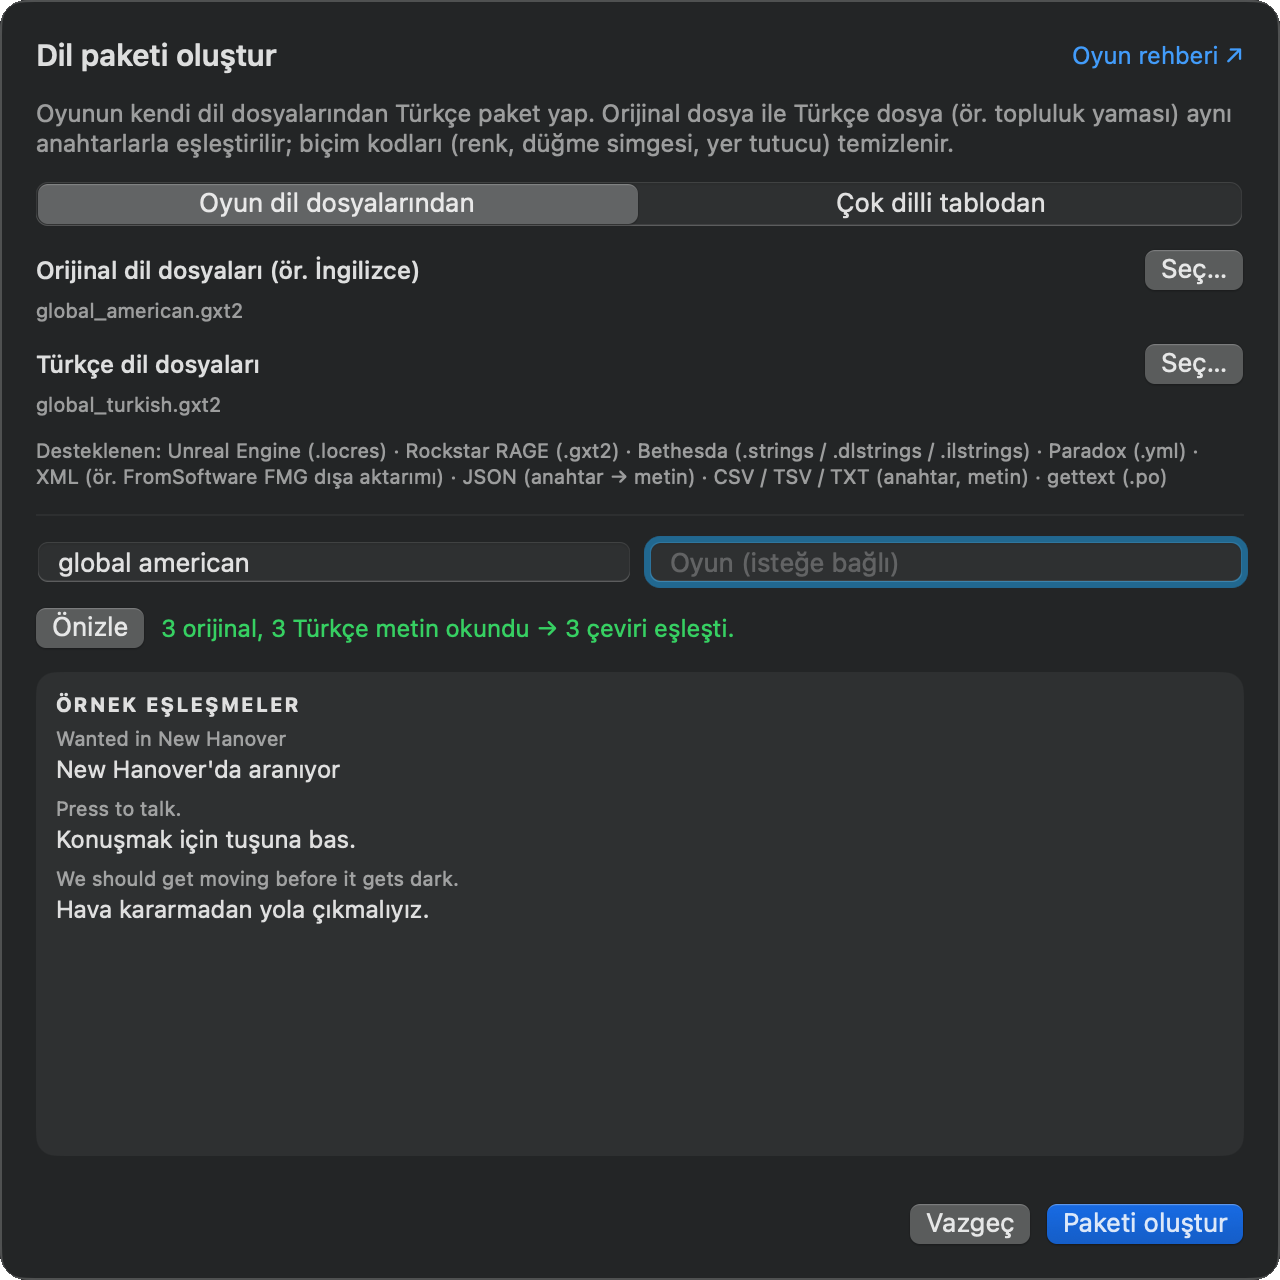
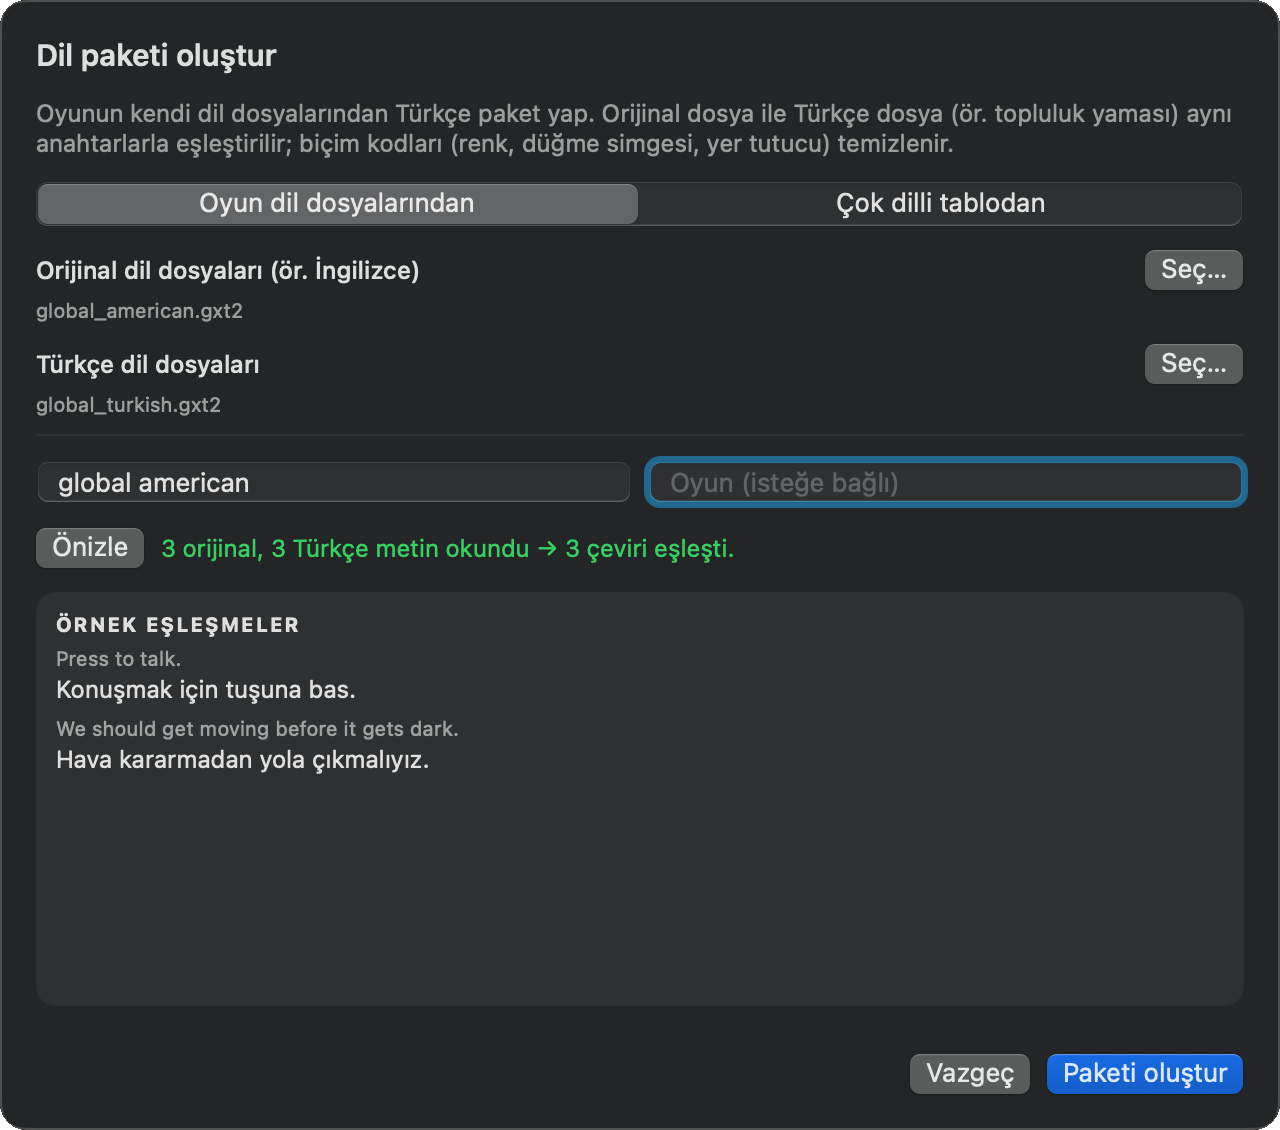
Dil paketleri bölümü sadeleştirildi, ekran görüntüleri güncellendi

Changed region(s): [[0.0312, 0.031, 1.0, 0.7434], [0.7188, 0.9292, 0.9688, 0.9912]]

diff --git a/README.md b/README.md
@@ -111,30 +111,25 @@ oynarken başka hiçbir şeye dokunman gerekmez.
 
 ## İnternetsiz çeviri: oyun dil paketleri
 
-Dil paketi, bir oyunun **"orijinal metin → Türkçe çeviri"** listesidir. Paketi oyun profiline bağladığında o oyunda ekrandan okunan yazı
-önce pakette aranır; bulunursa paketteki çeviri gösterilir, hiçbir yere bağlanılmaz. Bulunamayan yazılar seçtiğin çeviri motoruna kalır.
+Oyuna bir dil paketi bağla; ekrandaki yazı oyunun kendi Türkçe metinlerinden **internet olmadan ve anında** çevrilir. (macOS, 1.5.0)
 
-- **Çevrimdışı oynayanlar için:** uçakta, yolda, internetin zayıf olduğu yerde ya da bulut motorun sınırı dolduğunda çeviri sürer.
-- **Doğru terimler:** topluluk Türkçe yamalarındaki ya da kendi düzelttiğin çeviriler kullanılır; eşya, yetenek ve görev adları hep aynı çıkar.
-- **Sıfır gecikme:** paketten gelen çeviri motoru beklemez, altyazı belirdiği anda ekrandadır.
+<table>
+<tr>
+<td width="50%"><img src="assets/ekran-goruntuleri/dil-paketi-olustur.png" alt="Dil paketi oluştur: oyun dil dosyalarından"><br>
+<b>Oyun dosyalarından oluştur</b><br>Orijinal ve Türkçe dil dosyalarını seç; metinler eşleşir, biçim kodları temizlenir.</td>
+<td width="50%"><img src="assets/ekran-goruntuleri/dil-paketi-tablo.png" alt="Dil paketi oluştur: çok dilli tablodan"><br>
+<b>Çok dilli tablodan</b><br>Dillerin ayrı sütunlarda olduğu tablodan Türkçe sütun kendiliğinden bulunur.</td>
+</tr>
+<tr>
+<td width="50%"><img src="assets/ekran-goruntuleri/dil-paketi-profil.png" alt="Oyun profili: Dil paketi seçimi"><br>
+<b>Oyuna bağla</b><br>Oyun Profili › Ayarla › Dil paketi'nden seç; bulunamayan yazılar çeviri motoruna kalır.</td>
+<td width="50%"><img src="assets/ekran-goruntuleri/dil-paketi-ayarlar.png" alt="Ayarlar: Dil paketleri"><br>
+<b>Ne zaman kullanılsın</b><br>"Önce dil paketi" ya da "Yalnızca internet yokken". Paketleri ekle, paylaş, sil.</td>
+</tr>
+</table>
 
-> Dil paketleri macOS sürümünde, **1.5.0** ile geldi.
-
-### Kendi paketini elle hazırla
-1. En kolayı CSV: 1. sütun orijinal, 2. sütun çeviri. Excel, Numbers ya da Google E-Tablolar'da hazırlayıp CSV olarak kaydet.
-   Hazır şablon: [ornek-dil-paketi.csv](dil-paketleri/ornek-dil-paketi.csv).
-2. **Ayarlar › Dil paketleri › Dil paketi ekle…**
-3. **Oyun Profili › Ayarla › Dil paketi**'nden seç.
-
-| Biçim | Örnek |
-|---|---|
-| **CSV / TSV** | `"Bounty Board","Ödül Panosu"` |
-| **TXT** | `Bounty Board = Ödül Panosu` |
-| **JSON** | `{"name": "Oyun adı", "entries": {"Bounty Board": "Ödül Panosu"}}` |
-| **PO** (gettext) | `msgid "Bounty Board"` / `msgstr "Ödül Panosu"` |
-
-**Akıllı eşleşme:** ekrandan okunan yazıdaki küçük harf hataları, eksik noktalama ve baştaki konuşmacı adı tolere edilir. Emin olunamayan
-eşleşmeler kullanılmaz, çeviri motoruna bırakılır; yanlış çeviri gösterilmez.
+Elle hazırlamak için CSV yeter: 1. sütun orijinal, 2. sütun çeviri ([örnek paket](dil-paketleri/ornek-dil-paketi.csv)).
+Desteklenen dosyalar: `.locres`, `.gxt2`, `.strings`, XML, JSON, CSV / TSV / TXT, PO.
 
 <a id="oyun-rehberi"></a>
 
@@ -210,7 +205,7 @@ anahtarlarla eşleştirilir. İki dosya da oyunun **aynı sürümüne** ait olma
 | **Oyun profilleri** | Altyazı + en fazla 3 ek bölge (bildirim, görev, ipucu) + ses çevirisi alanı. Her bölgenin yazı boyutu ayrı ya da otomatik. |
 | **Okuma ayarları** | Büyütme (1×–3×), siyah-beyaz eşikleme, kontrast, güven eşiği, hassas OCR ve kararlılık. "OCR'a giden" görüntüyü canlı izlersin. |
 | **Sesli konuşma çevirisi** | Altyazısız diyalogları ve NPC sohbetlerini dinler, mor bir balonda çevirir. Konuşma tanıma cihazda çalışır. |
-| **[Dil paketleri](#dil-paketleri)** | Oyunun "orijinal → Türkçe" metinleriyle **internetsiz** çeviri. Oyun dosyalarından (.locres, .gxt2, .strings, .yml, XML) ya da tablodan otomatik oluşturulur; CSV, TXT, JSON, PO ile elle de hazırlanır. |
+| **[Dil paketleri](#dil-paketleri)** | Oyunun "orijinal → Türkçe" metinleriyle **internetsiz** çeviri. Oyun dosyalarından ya da tablodan otomatik oluşturulur, CSV ile elle de hazırlanır. |
 | **Yazı tipi** | Hazır yazı tipleri, Mac'indeki tüm yazı tipleri ya da kendi .ttf/.otf dosyan; kalınlık ayarı. Ekranda ve OBS'te aynı yazı tipi. |
 | **Yazı arka planı** | Siyah, beyaz, şeffaf ya da istediğin renk; saydamlık ayarı ve canlı önizleme. Yazı rengi kendiliğinden uyum sağlar. |
 | **[OBS ile yayın](#obs-ile-yayın)** | Çeviriler yayına şeffaf arka planla düşer. Altyazı, ses ve bildirimler ayrı kaynaklar olarak ayrı yerlere konabilir; kutu rengi yayında ayrı seçilir. |

diff --git a/CHANGELOG.md b/CHANGELOG.md
@@ -3,16 +3,12 @@
 İndirme: [Sürümler](https://github.com/0xxnr/GameTranslator/releases)
 
 ## 1.5.0 — Oyun dil paketleri
-- **Dil paketi:** bir oyunun "orijinal metin → çeviri" listesini uygulamaya ekleyip oyun profiline bağlayabilirsin. O oyun seçiliyken ekrandan okunan yazı önce pakette aranır ve **internet olmadan** da çevrilir.
-- **Akıllı eşleşme:** ekrandan okunan yazıdaki küçük harf hataları, eksik noktalama, büyük/küçük harf farkı ve baştaki konuşmacı adı tolere edilir. Emin olunamayan eşleşmeler kullanılmaz, çeviri motoruna bırakılır.
-- **İki kullanım şekli** (Ayarlar › Dil paketleri): "Önce dil paketi, bulamazsa çeviri motoru" ya da "Yalnızca internet yokken". İnternet kesilince ya da çeviri motoru hata verince paket kendiliğinden devreye girer.
-- **Biçimler:** CSV / TSV (Excel, Numbers, Google E-Tablolar ile hazırlanabilir), TXT ("orijinal = çeviri"), JSON ve PO.
-- **Paylaşım:** paketler dışa aktarılıp başkalarıyla paylaşılabilir; "Örnek paket kaydet" ile hazır bir şablon alınır.
-- Oyun Profili › Ayarla'da yeni **Dil paketi** seçimi; Ayarlar'da paket listesi ve internet durumu.
-- **Oyun dosyalarından paket oluştur:** oyunun orijinal ve Türkçe dil dosyaları anahtara göre eşleştirilip paket yapılır. Desteklenen biçimler: Unreal Engine `.locres` (tüm sürümler), Rockstar `.gxt2` (GTA V, RDR2) .strings` (FromSoftware `.fmg` dışa aktarımı), JSON, CSV, PO. Birden çok dosya birlikte seçilebilir.
-- **Çok dilli tablodan paket:** dillerin ayrı sütunlarda olduğu tablolarda (Unity, Godot, RE Engine dışa aktarımları) İngilizce ve Türkçe sütun kendiliğinden bulunur.
-- Oyun metinlerindeki renk kodları, düğme simgeleri, etiketler ve yer tutucular temizlenir; önizlemede eşleşen çeviri sayısı ve örnekler görünür.
-- **Oyun rehberi:** Türkçesi olmayan güncel PS5 oyunları için dil dosyasının biçimi, yeri ve çıkarma yolu (indirme sayfasında).
+- **İnternetsiz çeviri:** oyun profiline bir dil paketi ("orijinal metin → çeviri" listesi) bağla; o oyunda okunan yazı önce pakette aranır, internet olmadan ve anında çevrilir.
+- **Akıllı eşleşme:** küçük okuma hataları, eksik noktalama ve baştaki konuşmacı adı tolere edilir; emin olunamayan yazılar çeviri motoruna bırakılır.
+- **Ne zaman kullanılsın:** "Önce dil paketi, bulamazsa çeviri motoru" ya da "Yalnızca internet yokken".
+- **Paket oluştur:** oyunun orijinal ve Türkçe dil dosyalarından (.locres, .gxt2, .strings, XML, JSON, CSV, PO) ya da çok dilli tablodan otomatik oluşturulur; biçim kodları temizlenir.
+- **Elle hazırla ve paylaş:** CSV / TSV, TXT, JSON ve PO desteklenir; paketler dışa aktarılıp paylaşılabilir.
+- Ana penceredeki geliştirici bağlantısı kaldırıldı; Ayarlar › Hakkında'da duruyor.
 
 ## 1.4.0 — Yazı tipi seçimi
 - **Ayarlar › Görünüm › Yazı tipi:** çeviri yazısının yazı tipi artık seçilebiliyor. Hazır seçenekler: Sistem (SF Pro), Yuvarlak, Serif ve Eş aralıklı.
